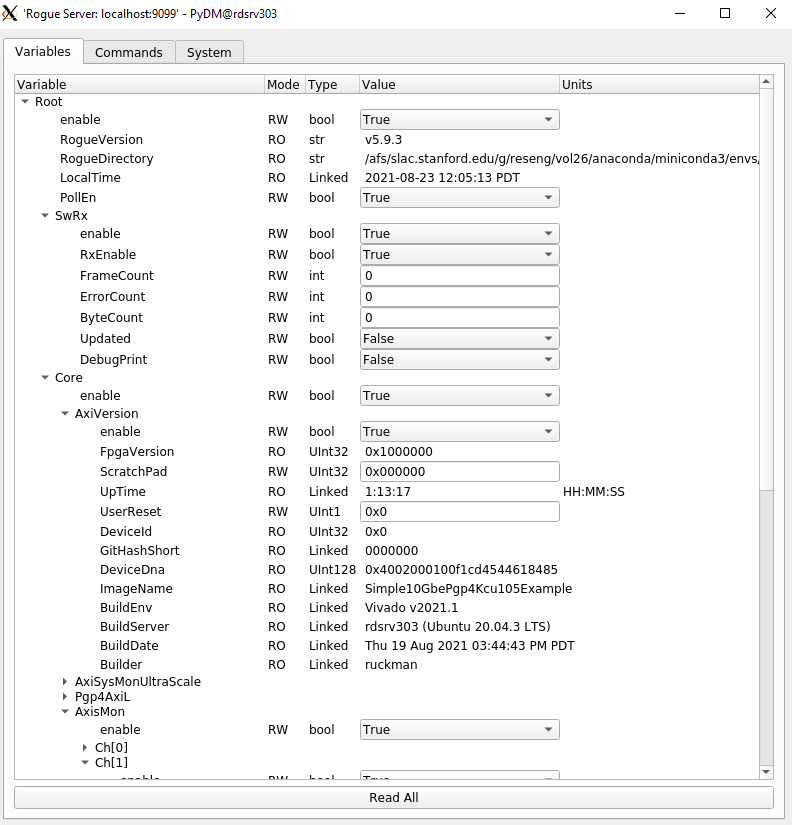
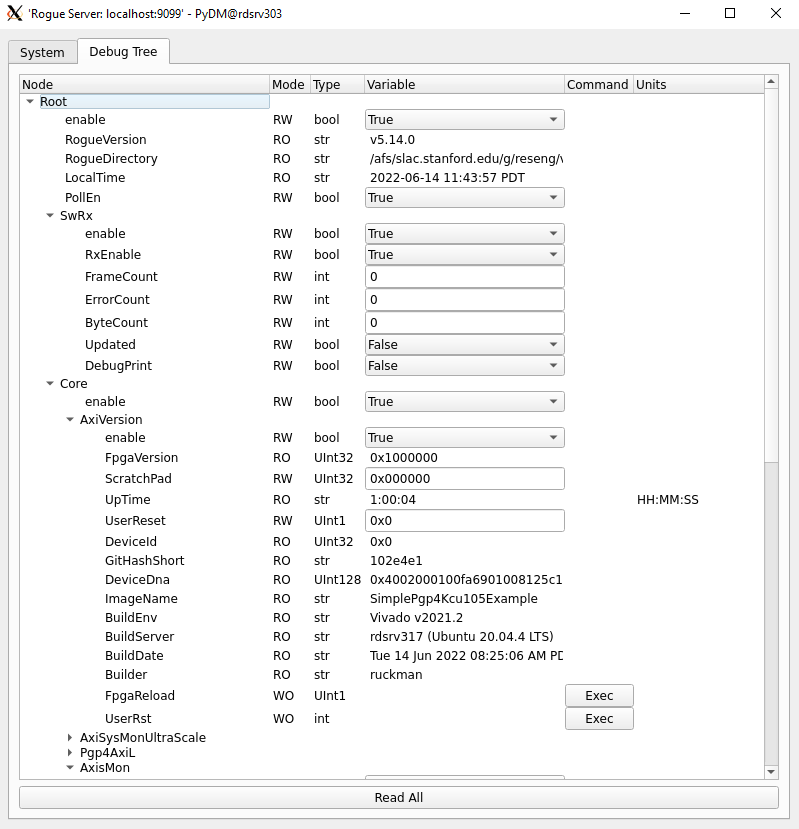
updating documentation

diff --git a/docs/src/HowTo/remote_debug.rst b/docs/src/HowTo/remote_debug.rst
@@ -28,9 +28,29 @@ and set ``USE_XVC_DEBUG = 1`` in your target's makefile:
       # Using XVC Debug bridge
       export USE_XVC_DEBUG = 1
 
-In this firmware example, the ``surf.UdpDebugBridgeWrapper`` is mapped to Virtual Channel (VC) 2:
+In the firmware (``firmware/common/rtl/Pgp.vhd``), the ``surf.UdpDebugBridgeWrapper`` is mapped to Virtual Channel (VC) 2:
 
    .. code-block:: vhdl
+
+      U_VC2_RX : entity surf.PgpRxVcFifo
+         generic map (
+            TPD_G            => TPD_G,
+            ROGUE_SIM_EN_G   => SIMULATION_G,
+            PHY_AXI_CONFIG_G => PGP4_AXIS_CONFIG_C,
+            APP_AXI_CONFIG_G => EMAC_AXIS_CONFIG_C)
+         port map (
+            -- PGP Interface (pgpClk domain)
+            pgpClk      => pgpClk,
+            pgpRst      => pgpRst,
+            rxlinkReady => pgpRxOut.linkReady,
+            pgpRxMaster => pgpRxMasters(2),
+            pgpRxCtrl   => pgpRxCtrl(2),
+            pgpRxSlave  => pgpRxSlaves(2),
+            -- AXIS Interface (axisClk domain)
+            axisClk     => axilClock,
+            axisRst     => axilReset,
+            axisMaster  => ibXvcMaster,
+            axisSlave   => ibXvcSlave);
 
       U_XVC : entity surf.UdpDebugBridgeWrapper
          generic map (
@@ -45,38 +65,38 @@ In this firmware example, the ``surf.UdpDebugBridgeWrapper`` is mapped to Virtua
             ibServerMaster => obXvcMaster,
             ibServerSlave  => obXvcSlave);
 
-In python rogue, VC[2] is mapped to UDP server:
+      U_VC2_TX : entity surf.PgpTxVcFifo
+         generic map (
+            TPD_G            => TPD_G,
+            APP_AXI_CONFIG_G => EMAC_AXIS_CONFIG_C,
+            PHY_AXI_CONFIG_G => PGP4_AXIS_CONFIG_C)
+         port map (
+            -- AXIS Interface (axisClk domain)
+            axisClk     => axilClock,
+            axisRst     => axilReset,
+            axisMaster  => obXvcMaster,
+            axisSlave   => obXvcSlave,
+            -- PGP Interface (pgpClk domain)
+            pgpClk      => pgpClk,
+            pgpRst      => pgpRst,
+            rxlinkReady => pgpRxOut.linkReady,
+            txlinkReady => pgpTxOut.linkReady,
+            pgpTxMaster => pgpTxMasters(2),
+            pgpTxSlave  => pgpTxSlaves(2));
+
+In the software (``firmware/python/simple_pgp4_kcu105_example/_Root.py``), VC[2] is mapped to XVC server:
 
    .. code-block:: python
 
-      # Create (Xilinx Virtual Cable) XVC UDP server on localhost
-      self.xvc  = rogue.protocols.udp.Server(2542,False) # Server(port,jumbo)
+      # Create (Xilinx Virtual Cable) XVC on localhost
+      self.xvc = rogue.protocols.xilinx.Xvc( 2542 )
+      self.addProtocol( self.xvc )
 
-      # Connect dmaStream[VC=2] to XVC UDP server
+      # Connect dmaStream[VC = 2] to XVC
       self.dmaStream[2] == self.xvc
 
-Next you will start up the rogue software, which will setup the UDP bridge to XVC.
-
-   .. code-block:: bash
-
-      $ cd Simple-PGPv4-KCU105-Example/software
-      $ python scripts/devGui.py
-
-Next you will build the XVC source:
-
-   .. code-block:: bash
-
-      $ cd Simple-PGPv4-KCU105-Example/software/xvcSrv/src
-      $ make
-
-Next you will connect execute the ``./xvcSrv -t <fw_ip_address>:<udp_server_port>`` command:
-
-   .. code-block:: bash
-
-      $ ./xvcSrv -t localhost:2542
-
-The XVC server is now running and ready to accept a XVC client connection.
-Next you will open ``Vivado Hardware Manager`` and ``open new target``:
+You will need to first start the rogue software (either GUI mode or interactive mode) to start the XVC server.
+Next, from Vivado main screen, you will open ``Vivado Hardware Manager`` and ``open new target``:
 
    .. image:: ../../images/xcv_0.png
      :width: 400

diff --git a/docs/src/HowTo/fileio.rst b/docs/src/HowTo/fileio.rst
@@ -16,7 +16,7 @@ to quickly write data to disk and analysis offline.
      :width: 800
      :alt: Alternative text
 
-# Go to the ``Variable`` tab and nagivate to ``Root.App.AppTx`` and execute 0x100 for ``SendFrame``
+# Go to the ``Debug Tree`` tab and nagivate to ``Root.App.AppTx`` and execute 0x100 for ``SendFrame``
 
    .. image:: ../../images/fileio_1.png
      :width: 800
@@ -34,9 +34,11 @@ to quickly write data to disk and analysis offline.
 
    .. code-block:: bash
 
-      $ python scripts/fileReader.py --dataFile data_20210719_194217.dat
-      Rogue/pyrogue version v5.8.0. https://github.com/slaclab/rogue
+      $ python scripts/fileReader.py --dataFile data_20220614_114953.dat
+      Rogue/pyrogue version v5.14.0. https://github.com/slaclab/rogue
       Start: Started zmqServer on ports 9099-9101
+          To start a gui: python -m pyrogue gui --server='localhost:9099'
+          To use a virtual client: client = pyrogue.interfaces.VirtualClient(addr='localhost', port=9099)
       eventFrame.header = 0
       eventFrame.header = 1
       eventFrame.header = 2
